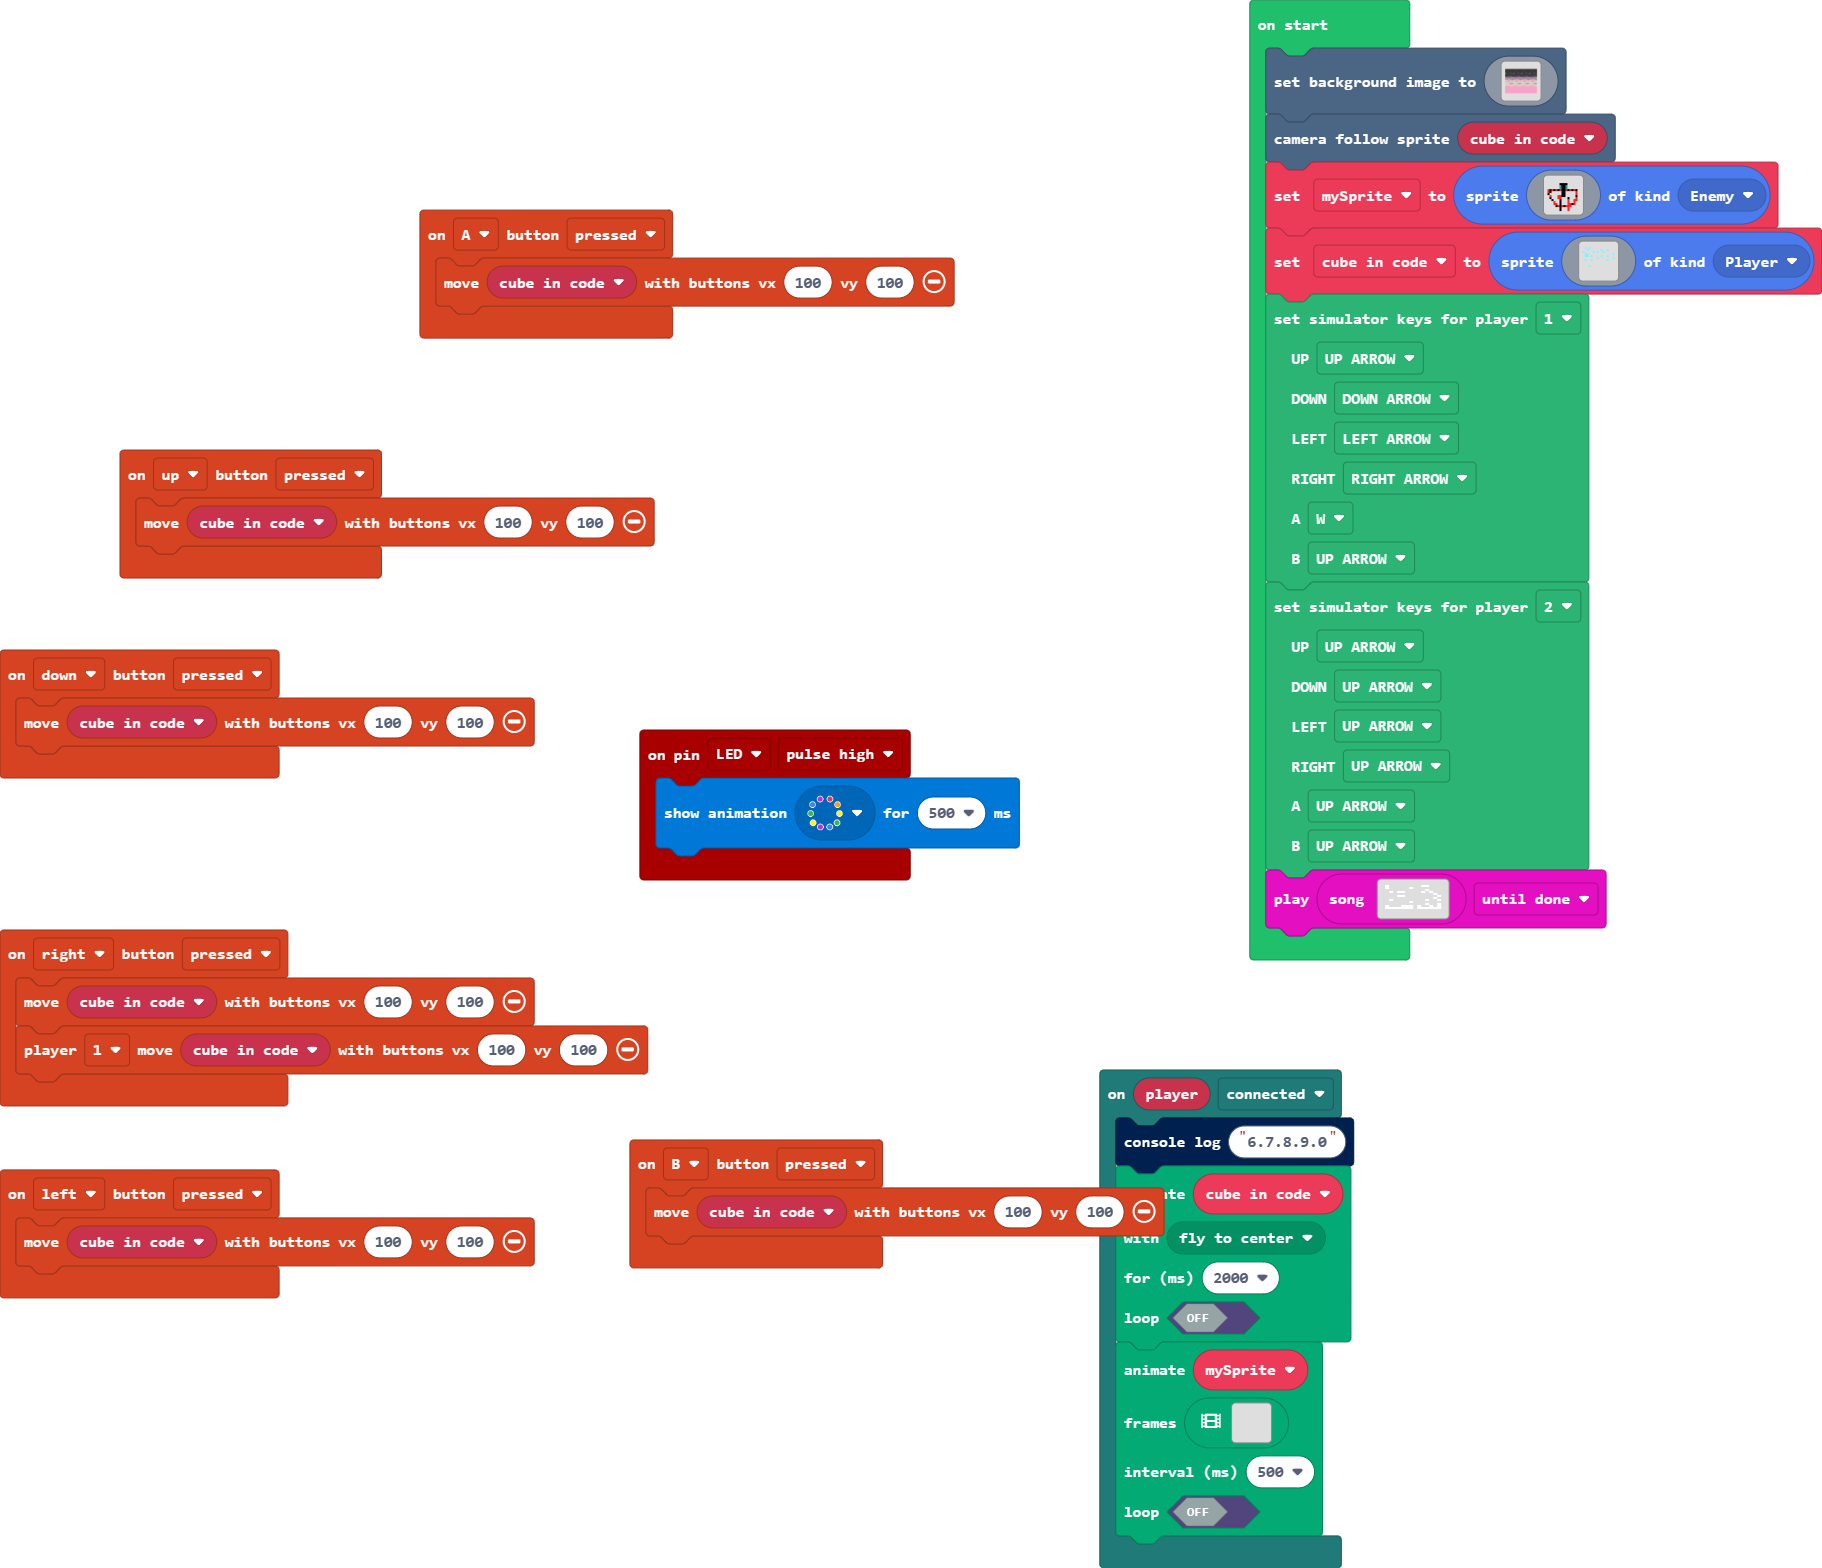
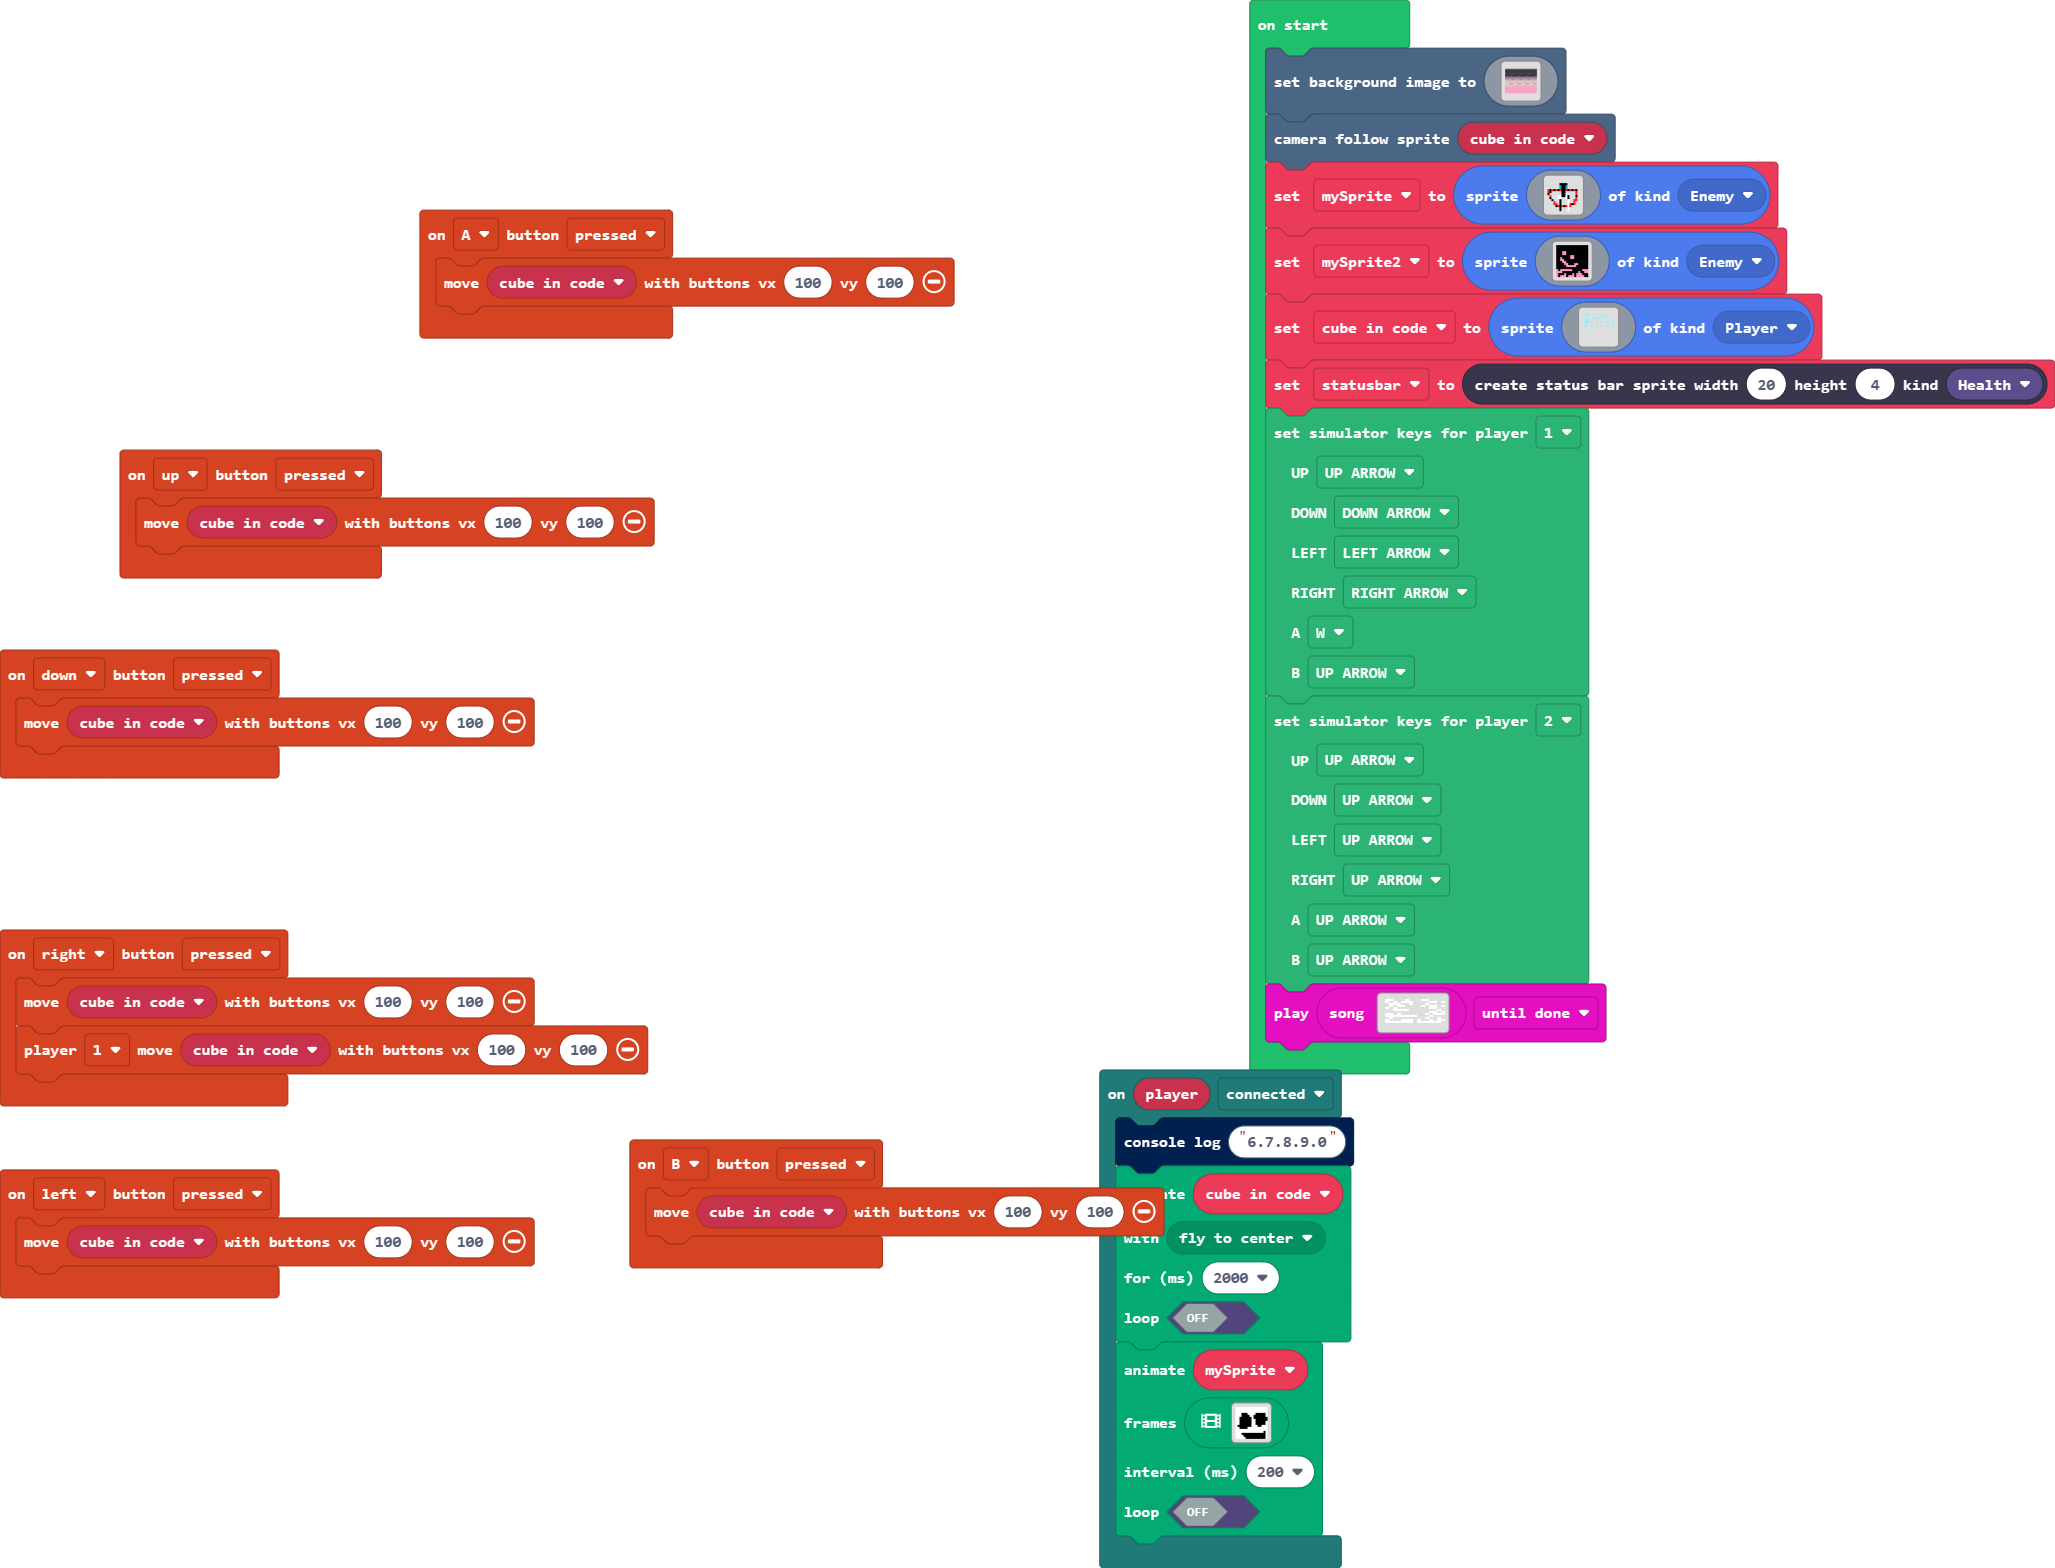
Update pxt.json, main.blocks, main.ts, images.g.jres, images.g.ts, tilemap.g.jres, tilemap.g.ts

diff --git a/images.g.ts b/images.g.ts
@@ -164,25 +164,6 @@ dd3333333333333333333dddddd333333ddddddddd3333333333333333333dddddd333333ddddddd
 8 8 8 8 8 8 8 8 8 8 . . 8 8 8 8 
 . . . . . . . . . . . . . . . . 
 `;
-            case "image3":
-            case "myImage":return img`
-. . . . . . . . . . . . . . . . 
-. . . . . . . . . . . . . . . . 
-. . . . . . f f f f . . . . . . 
-. . . . . . 6 f f 6 . . . . . . 
-. . . . . . 6 f f 6 . . . . . . 
-2 f 2 f 2 f 2 f f 2 f 2 f 2 f . 
-2 f . . . . . f f . . . . . 2 . 
-f . . . . . . f f . . . . . 2 . 
-. 2 . . . 2 2 f f . . . . . f . 
-. f . . . 2 2 . . . f . . . 2 . 
-. . f . . . f . . . 2 . . 2 2 . 
-. . . 2 . . f . . . 2 . . 2 . . 
-. . . 2 2 . f . . . 2 2 f 2 . . 
-. . . . f 2 f 2 f 2 2 2 . . . . 
-. . . . . . f . . . 2 . . . . . 
-. . . . . . f . . . 2 . . . . . 
-`;
             case "image5":
             case "cube":return img`
 . . . . . . . . . . . . . . . . 
@@ -202,6 +183,44 @@ f . . . . . . f f . . . . . 2 .
 . . . . . . . . . . . . . . . . 
 . . . . . . . . . . . . . . . . 
 `;
+            case "image6":
+            case "myImage1":return img`
+f f f f f f f f f f f f f f f f 
+f f f f f f f f f f f f f f f f 
+f f f f f f f f f f f f f f f f 
+f f f 3 3 f f f f f f f f f f f 
+f f f 3 3 f f f f f f f f f f f 
+f f f f f f f 3 3 f f f f f f f 
+f f 3 f f f f 3 3 f f f f f f f 
+f f 3 3 f f f f f f f f f f f f 
+f f f 3 3 f f f f f f f f f f f 
+f f f f 3 3 f f f 3 3 f f f f f 
+f f f f f 3 3 3 3 3 f f f f f f 
+f f f f f f f f f f f f f f f f 
+3 f 3 3 3 3 3 3 f f f f f 3 3 3 
+3 3 3 f f f f f f f f 3 f f 3 3 
+3 f f f 3 f f f 3 f 3 3 3 f f f 
+3 f 3 3 3 f 3 3 3 f 3 3 3 3 f f 
+`;
+            case "image3":
+            case "myImage":return img`
+. . . . . . . . . . . . . . . . 
+. . . . . . . . . . . . . . . . 
+. . . . . . f f f f . . . . . . 
+. . . . . . 6 f f 6 . . . . . . 
+. . . . . . 6 f f 6 . . . . . . 
+2 f 2 f 2 f 2 f f 2 f 2 f 2 f . 
+2 f . . . . . f f . . . . . 2 . 
+f . . . . . . f f . . . . . 2 . 
+. 2 . . . 1 1 f f 1 f . . . f . 
+. f . . . 1 1 . . 1 f . . . 2 . 
+. . f . . . f . . . 1 . . 2 2 . 
+. . . 2 . . f . . . 1 . . 2 . . 
+. . . 2 2 . f . . . 1 2 f 2 . . 
+. . . . f 2 f 2 f 2 1 2 . . . . 
+. . . . . . f . . . 1 . . . . . 
+. . . . . . f . . . 1 . . . . . 
+`;
         }
         return null;
     })
@@ -210,56 +229,73 @@ f . . . . . . f f . . . . . 2 .
         switch(helpers.stringTrim(name)) {
             case "myAnim":
             case "anim1":return [img`
-. . . . . . . . . . . . f . . . 
-. . . . . . . . . . . . f . . . 
-. . . . . . . . . . . . f f f . 
-. . . . 9 9 9 9 . . . . . f f . 
-. . . . 9 9 9 9 . . . . f f . . 
-. . . . . 9 9 . . . . . . f . . 
-. . . . . 9 9 . . . . . f . . . 
-2 2 2 2 2 2 2 2 2 2 . . f . . . 
-2 2 . . . 2 . . . 2 . . f f . . 
-2 2 . . . . 2 . . 2 . . . f . . 
-2 2 . f f . . . . 2 . . f f . . 
-2 2 . f f . f . . 2 . . f f . . 
-2 2 . . . . . . . 2 . . . f f . 
-2 2 . . . . . . . 2 . . . f . . 
-. 2 2 2 2 2 . . . 2 . . f f . . 
-. . . . . 2 2 2 2 . . . f . . . 
+1 1 1 1 1 1 1 1 1 1 1 1 1 1 1 1 
+1 1 1 1 1 1 1 1 1 1 1 1 1 1 1 1 
+1 1 1 1 1 1 1 1 1 1 1 1 1 1 1 1 
+1 1 1 f f f 1 1 1 1 f f f f f 1 
+1 1 1 f f f f 1 1 f f f f f f 1 
+1 1 f f f f f f 1 f f f f f f f 
+1 1 f f f f f f 1 1 f f f f f f 
+1 1 f f f f f f 1 1 f f f f f 1 
+1 1 f f f f f f 1 1 f f f f f 1 
+1 f f f f f f f 1 1 1 f f 1 1 1 
+1 1 f f f f 1 1 1 1 1 1 1 1 1 1 
+1 1 1 1 1 1 1 1 1 1 1 1 1 1 1 1 
+1 1 1 1 1 1 1 1 1 1 1 1 1 1 f 1 
+1 1 1 f f f f f f f f f f f f 1 
+1 1 1 1 f f f f f f f f f f f 1 
+1 1 1 1 1 f f f f f f f f f f 1 
 `, img`
-. . . . . . 9 9 9 9 . . . . . . 
-. . . . . 2 2 2 2 2 2 . . . . . 
-. 2 2 2 2 2 9 9 . . 2 2 2 2 2 2 
-. 2 2 2 2 2 9 9 . 9 2 2 2 2 2 2 
-. 2 2 . . 2 . . . . 2 . . . 2 2 
-. 2 2 . . 2 2 2 2 2 2 . . . 2 2 
-. 2 2 . . 2 . . . . . . . . 2 2 
-. 2 2 . . . . 2 . . . . . . 2 2 
-. 2 2 . . . . . . . . . . . 9 9 
-. 9 9 . . . . . 6 . 2 . . . 9 9 
-. 9 9 . . . . . 2 . . . . . 2 2 
-. 2 2 . . 2 . . 2 . . . . . 2 2 
-. 2 2 . . . . . 2 . . . . . 2 2 
-. 2 2 . . 2 . . 2 . . . . . 2 2 
-. 2 2 . . 2 . . 2 . . . . . 2 2 
-. 2 2 . . 2 . . 9 . . . . . 2 2 
+. . . . . . f f f f . . . . . . 
+. . . . . f f f f f f . . . . . 
+. f f f f f f f f . f f f f f f 
+. f f f f f f f . f f f f f f f 
+. f f . . f . . f . f . . . f f 
+. f f . . f f f f f f . . . f f 
+. f f . . f . . . . . . . . f f 
+. f f . . . . f . . . . . . f f 
+. f f . . . . . . . . . . . 1 1 
+. 1 1 . . . . . 1 . f . . . 1 1 
+. 1 1 . . . . . f . . . . . f f 
+. f f . . f . . f . . . . . f f 
+. f f . . . . . f . . . . . f f 
+. f f . . f . . f . . . . . f f 
+. f f . . f . . f . . . . . f f 
+. f f . . f . . 1 . . . . . f f 
 `, img`
-. . . . 2 2 2 2 . . . . . . . . 
-. . . . 2 f f 2 . . . . . . . . 
-. . . . 2 2 2 2 . . . . . . . . 
-. . 2 2 2 2 2 2 2 . . . . . . . 
-. 2 2 . 2 2 2 2 2 2 2 . . . . . 
-. 2 . . 2 2 2 2 2 . 2 . . . . . 
-. 2 . . . 2 f f 2 . 2 2 . . . . 
-. 2 . . . 2 f f 2 . . 2 . . . . 
-. f . . . 2 f f 2 . . 2 . . . . 
-. . . . . 2 2 2 2 . . 2 . . . . 
-. . . . f f . f f . . 2 f f . . 
-. . . . . . . . . . . . . . . . 
-. . . . . . . . . . . . . . . . 
-. . . . . . . . . . . . . . . . 
-. . . . . . . . . . . . . . . . 
-. . . . . . . . . . . . . . . . 
+f f f f f f f f f f f f f f f f 
+f f f f f f f f f f f f f f f f 
+f f f f f f f f f f f f f f f f 
+f f f 1 1 1 1 f f f f f f 1 f f 
+f f 1 1 1 1 1 1 f f f 1 1 1 1 f 
+f f 1 1 1 1 1 1 f f 1 1 1 1 1 f 
+f f 1 1 1 1 1 1 f f 1 1 1 1 1 1 
+f f 1 1 1 1 1 1 f f 1 1 1 1 1 1 
+f f 1 1 1 1 1 1 f f 1 1 1 1 1 1 
+f f 1 1 1 1 1 1 f f 1 1 1 1 1 f 
+f f f f f f f f f f 1 1 1 f f f 
+f f 1 1 1 1 1 1 1 f 1 1 f f f f 
+f f 1 1 1 1 1 1 1 1 1 1 1 1 1 f 
+f f f 1 1 1 1 1 1 1 1 1 1 1 1 f 
+f f f f 1 1 1 1 1 1 1 1 1 1 f f 
+f f f f 1 1 1 1 1 1 1 f f f f f 
+`, img`
+1 1 a a a a a a a a a a 1 1 a 1 
+1 1 a a f f f f a a f a a a 1 1 
+1 f f a f f f a 1 a a a 1 1 1 1 
+1 1 1 a f f a a a a f f f 1 1 1 
+f f f a a a a f a a a 1 f 1 f 1 
+f 1 a a a 1 a a a 1 1 a a a f f 
+f a a a a a a a a a a a a 1 a f 
+a 1 a a a a a 1 a a f a a a f f 
+f a a a a a a a 1 a a a f c c c 
+f 1 1 a a a a a a a a c c c c c 
+f f f a a a a a f a c c c c c c 
+f f a a a a f f a f c c c c c c 
+f a a a a a a a a 1 f f c c c c 
+f a a f a f a f 1 a a c c f f c 
+f 1 1 1 1 a f f f f f c c c c c 
+f f f f f a a a a a a c c c c c 
 `];
         }
         return null;
@@ -268,7 +304,7 @@ f . . . . . . f f . . . . . 2 .
     helpers._registerFactory("song", function(name: string) {
         switch(helpers.stringTrim(name)) {
             case "~*xOa62FQ6_L7rneSBWN":
[2 lines of base64/hex data omitted]
         }
         return null;
     })

diff --git a/tilemap.g.ts b/tilemap.g.ts
@@ -2,6 +2,8 @@
 namespace myTiles {
     //% fixedInstance jres blockIdentity=images._tile
     export const transparency16 = image.ofBuffer(hex``);
+    //% fixedInstance jres blockIdentity=images._tile
+    export const tile1 = image.ofBuffer(hex``);
 
     helpers._registerFactory("tilemap", function(name: string) {
         switch(helpers.stringTrim(name)) {
@@ -43,6 +45,25 @@ namespace myTiles {
 . . . . . . . . . . . . . . . . 
 . . . . . . . . . . . . . . . . 
 `, [myTiles.transparency16,sprites.castle.tileGrass2,sprites.builtin.forestTiles0,sprites.castle.tilePath7,sprites.castle.tileDarkGrass3,sprites.castle.tileDarkGrass2,sprites.dungeon.collectibleInsignia,sprites.dungeon.chestClosed,sprites.dungeon.collectibleBlueCrystal,sprites.dungeon.collectibleRedCrystal], TileScale.Sixteen);
+            case "level":
+            case "level3":return tiles.createTilemap(hex`1000100003030303030303030303030303030303030303030303030303030303030303030303030303030303030303030303030303030303030303030303030303030303030305050505010103030305030303030305050301010701030505030303030303070707070707060105050303030303070707070707060606070703030303030507070707070707070703030303030303030507070707060603030302020303030307070607070606020202020303030303070501060506050202030303030305050501060606020202030303030303050505060606020502020202030303030303030505020202050502030303030303030303030303030202020303030303`, img`
+. . . . . . . . . . . . . . . . 
+. . . . . . . . . . . . . . . . 
+. . . . . . . . . . . . . . . . 
+. . . . . . . . . . . . . . . . 
+. . . . . . . . . . . . . . . . 
+. . . . . . . . . . . . . . . . 
+. . . . . . . . . . . . . . . . 
+. . . . . . . . . . . . . . . . 
+. . . . . . . . . . . . . . . . 
+. . . . . . . . . . . . . . . . 
+. . . . . . . . . . . . . . . . 
+. . . . . . . . . . . . . . . . 
+. . . . . . . . . . . . . . . . 
+. . . . . . . . . . . . . . . . 
+. . . . . . . . . . . . . . . . 
+. . . . . . . . . . . . . . . . 
+`, [myTiles.transparency16,sprites.builtin.crowd5,sprites.builtin.crowd8,sprites.builtin.crowd0,myTiles.tile1,sprites.builtin.crowd2,sprites.builtin.crowd6,sprites.builtin.crowd7], TileScale.Sixteen);
         }
         return null;
     })
@@ -50,6 +71,8 @@ namespace myTiles {
     helpers._registerFactory("tile", function(name: string) {
         switch(helpers.stringTrim(name)) {
             case "transparency16":return transparency16;
+            case "myTile":
+            case "tile1":return tile1;
         }
         return null;
     })

diff --git a/main.ts b/main.ts
@@ -7,9 +7,6 @@ controller.B.onEvent(ControllerButtonEvent.Pressed, function () {
 controller.A.onEvent(ControllerButtonEvent.Pressed, function () {
     controller.moveSprite(cube_in_code, 100, 100)
 })
-pins.LED.onEvent(PinEvent.PulseHigh, function () {
-    light.showAnimation(light.rainbowAnimation, 500)
-})
 controller.left.onEvent(ControllerButtonEvent.Pressed, function () {
     controller.moveSprite(cube_in_code, 100, 100)
 })
@@ -30,25 +27,8 @@ mp.onControllerEvent(ControllerEvent.Connected, function (player2) {
     )
     animation.runImageAnimation(
     mySprite,
-    [img`
-        . . . . . . . . . . . . . . . . 
-        . . . . . . . . . . . . . . . . 
-        . . . . . . . . . . . . . . . . 
-        . . . . . . . . . . . . . . . . 
-        . . . . . . . . . . . . . . . . 
-        . . . . . . . . . . . . . . . . 
-        . . . . . . . . . . . . . . . . 
-        . . . . . . . . . . . . . . . . 
-        . . . . . . . . . . . . . . . . 
-        . . . . . . . . . . . . . . . . 
-        . . . . . . . . . . . . . . . . 
-        . . . . . . . . . . . . . . . . 
-        . . . . . . . . . . . . . . . . 
-        . . . . . . . . . . . . . . . . 
-        . . . . . . . . . . . . . . . . 
-        . . . . . . . . . . . . . . . . 
-        `],
-    500,
+    assets.animation`myAnim`,
+    200,
     false
     )
 })
@@ -57,7 +37,9 @@ let cube_in_code: Sprite = null
 scene.setBackgroundImage(assets.image`bextru`)
 scene.cameraFollowSprite(cube_in_code)
 mySprite = sprites.create(assets.image`myImage`, SpriteKind.Enemy)
+let mySprite2 = sprites.create(assets.image`myImage1`, SpriteKind.Enemy)
 cube_in_code = sprites.create(assets.image`cube`, SpriteKind.Player)
+let statusbar = statusbars.create(20, 4, StatusBarKind.Health)
 MakeyMakey.setSimulatorKeymap(
 MakeyMakey.PlayerNumber.ONE,
 MakeyMakey.MakeyMakeyKey.UP,
